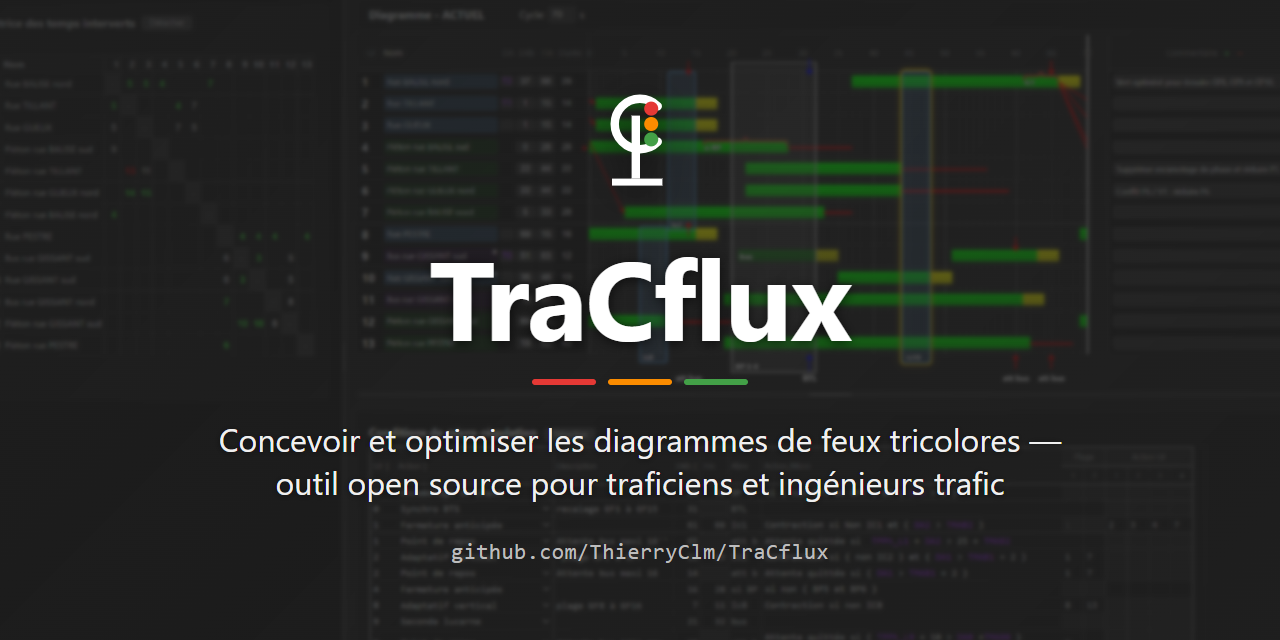
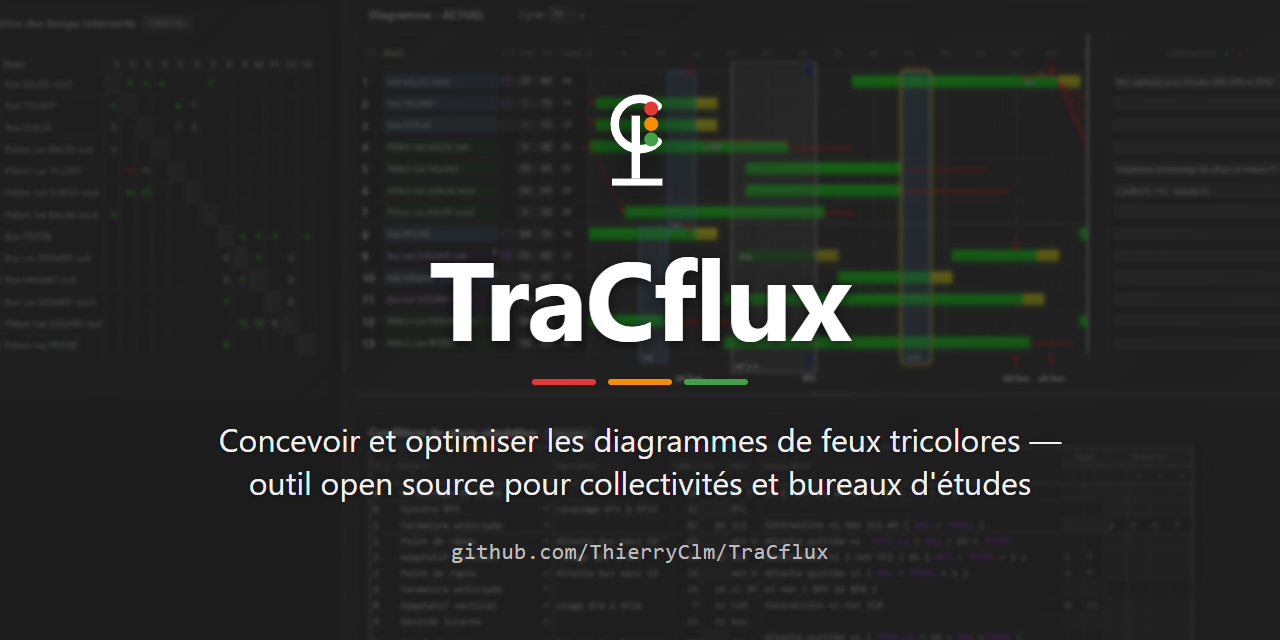
chore: accroche des vignettes de partage

Changed region(s): [[0.1875, 0.7188, 0.8125, 0.7812]]

diff --git a/docs/social-preview.html b/docs/social-preview.html
@@ -120,7 +120,7 @@
 
       <p class="tagline">
         Concevoir et optimiser les diagrammes de feux tricolores —<br>
-        outil open source pour traficiens et ingénieurs trafic
+        outil open source pour collectivités et bureaux d'études
       </p>
 
       <div class="url">github.com/ThierryClm/TraCflux</div>
